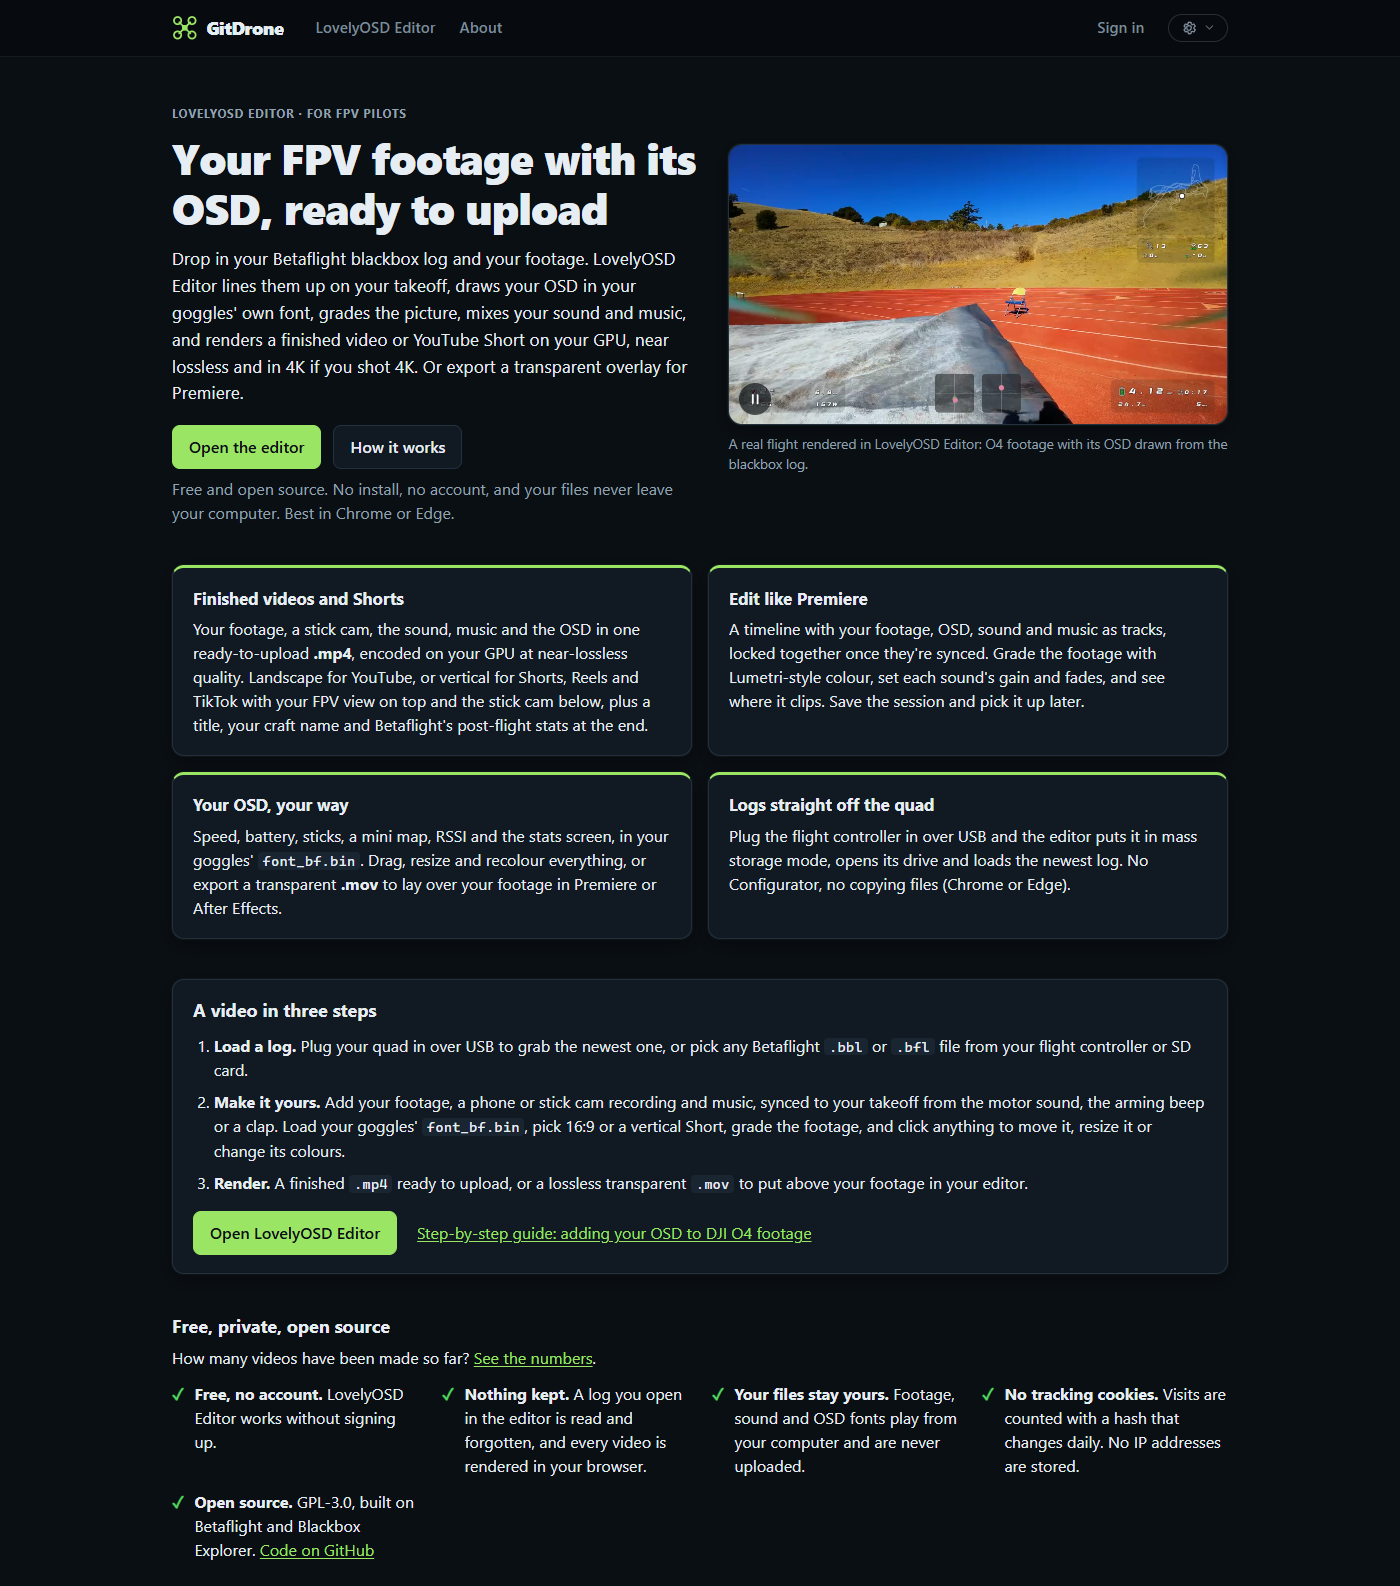
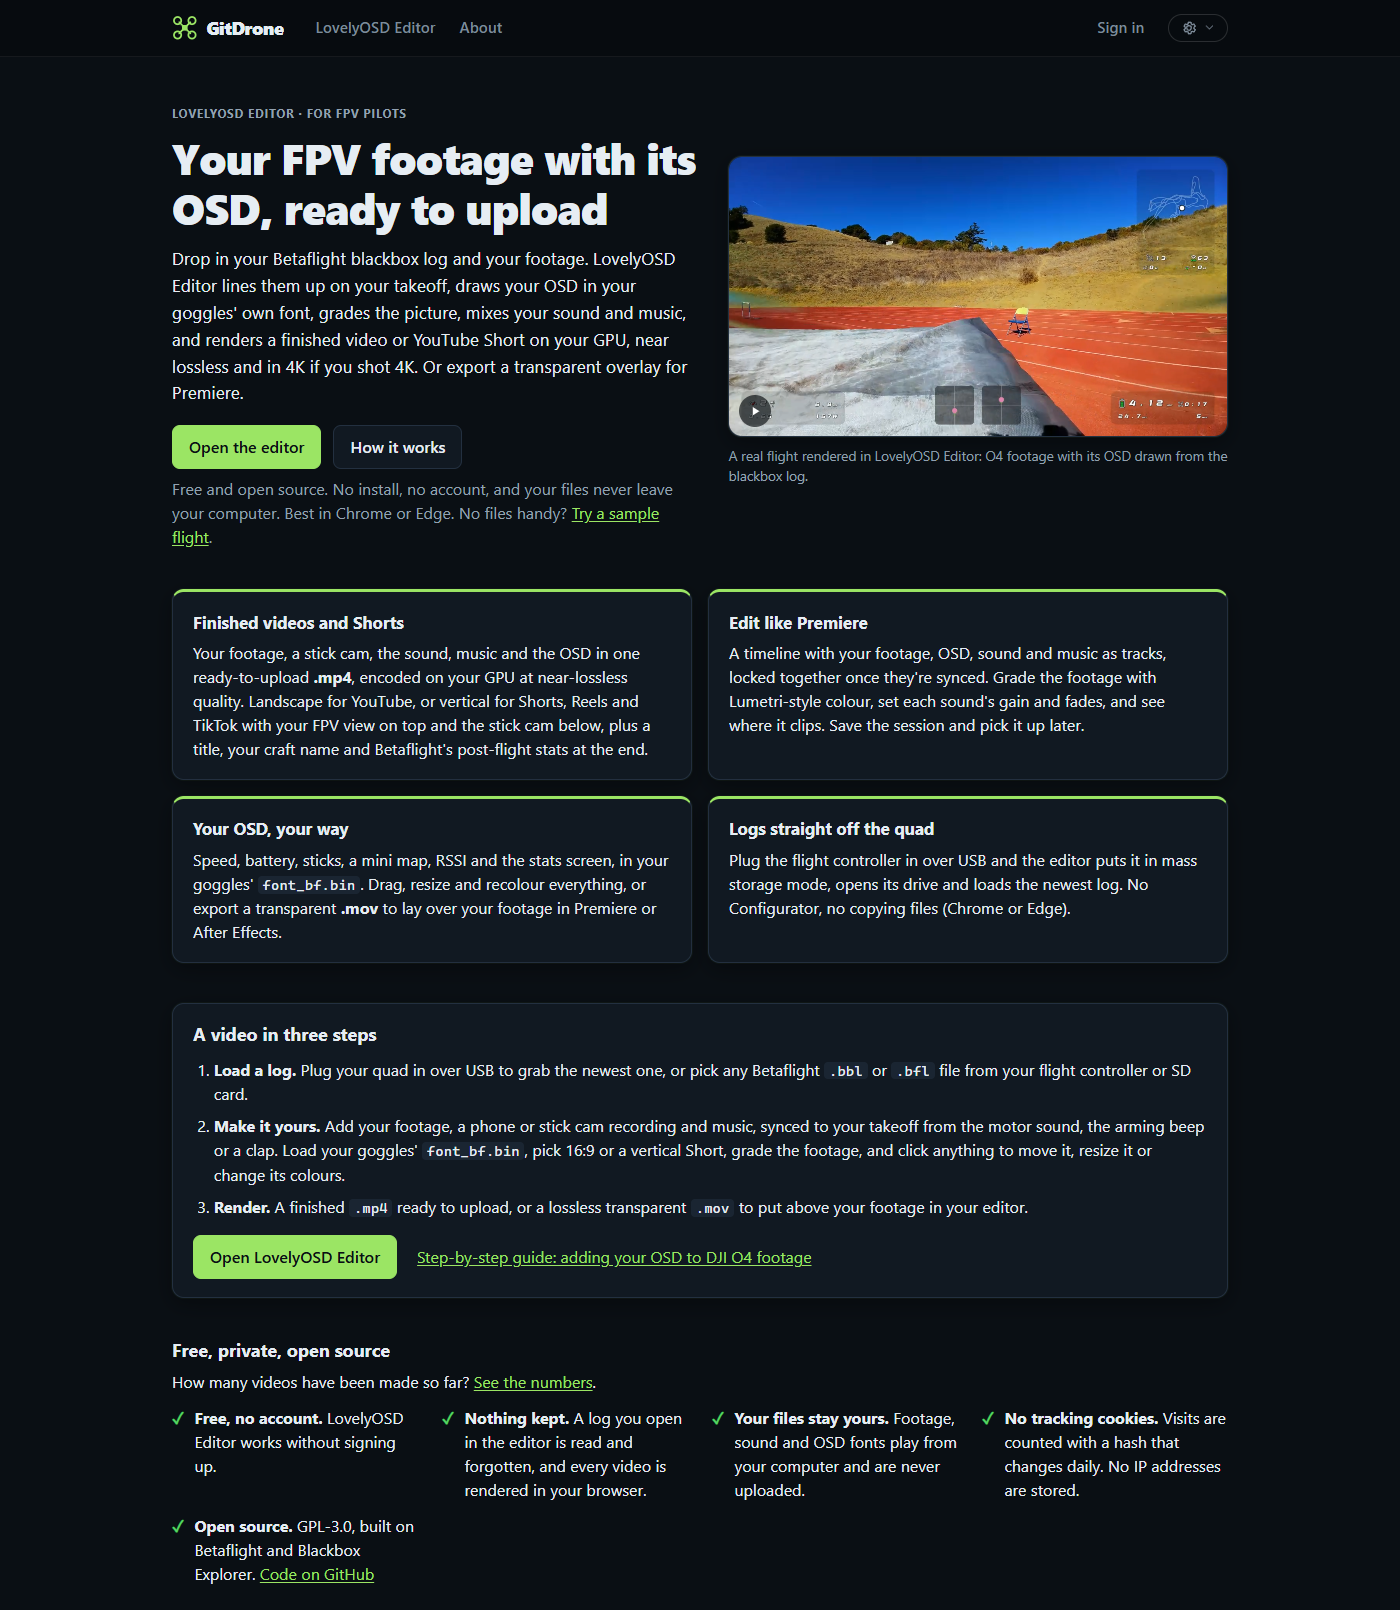
beautifying the editor page

diff --git a/drone-logger/src/app/osd/lovely-osd.component.ts b/drone-logger/src/app/osd/lovely-osd.component.ts
@@ -188,11 +188,18 @@ interface Opening {
             <app-overlay-export [data]="overlayData()!" [seconds]="s.flight.durationMs / 1000" [fileStem]="fileStem()" [(video)]="video" [(sound)]="sound" />
           </section>
 
-          <section aria-labelledby="osd-stats-heading">
-            <h2 id="osd-stats-heading">Flight stats</h2>
-            <app-flight-view [flight]="s.flight" [track]="s.track" [sticks]="s.sticks?.points ?? null" [battery]="s.battery?.points ?? null"
-                             [telemetry]="s.telemetry?.points ?? null" />
-          </section>
+          <!-- The flight's stats, map, charts and playback, folded away under the editor until wanted. Drawn only once
+               opened, so the map sizes itself to a visible box. -->
+          <details class="flight-data" [open]="statsOpen()" (toggle)="statsOpen.set($any($event.target).open)">
+            <summary>
+              <h2 id="osd-stats-heading">Flight stats</h2>
+              <span class="hint">Stats, map, charts and stick playback</span>
+            </summary>
+            @if (statsOpen()) {
+              <app-flight-view [flight]="s.flight" [track]="s.track" [sticks]="s.sticks?.points ?? null" [battery]="s.battery?.points ?? null"
+                               [telemetry]="s.telemetry?.points ?? null" />
+            }
+          </details>
         }
     </div>
   `,
@@ -205,7 +212,12 @@ interface Opening {
     .pick p { margin: 0; }
     .session-title { margin: 1.5rem 0 .75rem; }
     section h2 { margin: 1.5rem 0 .25rem; }
-    #osd-stats-heading { margin-top: 2.5rem; margin-bottom: .75rem; }
+    .flight-data { margin-top: 2.5rem; }
+    .flight-data summary { cursor: pointer; display: flex; flex-wrap: wrap; align-items: baseline; gap: .25rem .75rem; margin-bottom: .75rem; }
+    .flight-data summary::before { content: '▸'; color: var(--accent); }
+    .flight-data[open] summary::before { content: '▾'; }
+    .flight-data summary::-webkit-details-marker { display: none; }
+    #osd-stats-heading { margin: 0; display: inline; }
     section .hint { margin: 0; }
     .small { padding: .3rem .75rem; font-size: .88rem; }
     .link { background: none; border: 0; padding: 0; font: inherit; color: var(--accent); text-decoration: underline; cursor: pointer; }
@@ -332,6 +344,8 @@ export class LovelyOsdComponent {
   // ---- the sample flight ----
   /** The sample is in: shows the tip on lining it up. */
   sample = signal(false);
+  /** The flight stats under the editor: folded away until opened. */
+  statsOpen = signal(false);
   sampleLoading = signal(false);
 
   /**

diff --git a/README.md b/README.md
@@ -59,7 +59,7 @@ fade out at the end, with Betaflight's post-flight stats as the last frame holds
 (100 or 120 fps footage comes out at 60).
 
 <p align="center">
-  <img src="docs/screenshots/shorts.png" alt="The editor in vertical 9:16: the Title settings and the A2 Music track's settings (graph, gain, peak, song start, fades) on the left; a tall preview with the O4 footage on top, the stick cam below, big sticks and the battery over it, and the title and craft name; the timeline under it with the OSD, footage, stick cam, sound and music tracks, locked; and Options with Sources, Show and Output, then the Export row" width="860">
+  <img src="docs/screenshots/shorts.png" alt="The editor in vertical 9:16: the Title settings and the A2 Music track's settings (graph, gain, peak, song start, fades) on the left; a tall preview with the O4 footage on top, the stick cam below, big Pixel sticks (white rings on pixel-art boxes) and the battery over it, and the title and craft name; the timeline under it with the OSD, footage, stick cam, sound and music tracks, locked; and Options with Sources, Show and Output, then the Export row" width="860">
 </p>
 
 ### 🔌 Logs straight off the quad
@@ -69,7 +69,7 @@ the same as the Configurator's button, then opens its drive and loads the newest
 (Chrome or Edge).
 
 <p align="center">
-  <img src="docs/screenshots/overlay.png" alt="The overlay editor in 16:9: the Sticks settings and the V1 Flight footage's settings (sync, the Lumetri-style Color and Light sliders, zoom) on the left; a preview of real FPV footage with speed, battery, sticks and the mini map in a Betaflight OSD font; under it the Premiere-style timeline with the OSD, footage, sound and music tracks, the sound's waveform with its arming and clap markers, and the Render range; and Options along the bottom in three boxes, Sources, Show and Output (with the Max, High, Smaller and Upload quality buttons), then the Export row and its Overlay .mov and Video .mp4 buttons" width="860">
+  <img src="docs/screenshots/overlay.png" alt="The overlay editor in 16:9: the Sticks settings (stick mode, the Pixel look, its Backdrop, trails and colours) and the V1 Flight footage's settings (sync, the Lumetri-style Color and Light sliders, zoom) on the left; a preview of real FPV footage with speed, battery, the Pixel sticks and the mini map in a Betaflight OSD font; under it the Premiere-style timeline with the OSD, footage, sound and music tracks, the sound's waveform with its arming and clap markers, and the Render range; and Options along the bottom in three boxes, Sources, Show and Output (with the Max, High, Smaller and Upload quality buttons), then the Export row and its Overlay .mov and Video .mp4 buttons" width="860">
 </p>
 
 <table>
@@ -110,7 +110,7 @@ Each quad with its photo, specs, tune timeline (with firmware updates marked) an
 ### 🏠 And a front page to show it off
 
 <p align="center">
-  <img src="docs/screenshots/home.png" alt="The home page, leading with LovelyOSD Editor: the headline Your FPV footage with its OSD, ready to upload, Open the editor and How it works buttons, a looping clip of a real flight rendered with its OSD, four feature cards about the editor, a video-in-three-steps section, and the free, private, open source promises" width="860">
+  <img src="docs/screenshots/home.png" alt="The home page, leading with LovelyOSD Editor: the headline Your FPV footage with its OSD, ready to upload, Open the editor and How it works buttons, a Try a sample flight link, a looping clip of a real flight rendered with its OSD, four feature cards about the editor, a video-in-three-steps section, and the free, private, open source promises" width="860">
 </p>
 
 ## Tech stack
@@ -413,7 +413,7 @@ in the format, resolution and frame rate set under Output (`flights/video-render
 ## LovelyOSD Editor
 
 The **LovelyOSD Editor** tab (`/osd`), first in the nav and what the home page is about, is the quick route: pick a blackbox log, see the same stats, map, playback
-and charts as a flight page, and export the overlay video, without adding anything to the hangar. The API reads the
+and charts as a flight page (folded away under the editor until you open **Flight stats**), and export the overlay video, without adding anything to the hangar. The API reads the
 file in memory and forgets it (nothing goes into the database or `App_Data/logs`), and the results only live on the
 page, so leaving it clears them, unless you save the session. A file with several armed sessions gets a session picker.
 

diff --git a/drone-logger/README.md b/drone-logger/README.md
@@ -38,7 +38,8 @@ src/app/
 │   ├── file-handles, session-store  Keeping picked files' handles; saved LovelyOSD sessions in IndexedDB
 │   ├── overlay-export.component    The overlay editor (preview, Components and Track panels, Options, sync, both exports)
 │   ├── track-timeline.component    The editor's Premiere-style timeline: tracks, markers, playhead, render range
-│   ├── overlay-renderer            Draws one HUD frame on a canvas (panels, sticks, map, stats, title, craft name)
+│   ├── overlay-renderer            Draws one HUD frame on a canvas (panels, sticks in Smooth, Pixel or Retro, map,
+│   │                               stats, title, craft name)
 │   ├── mov-writer                  The transparent overlay: PNG frames in a QuickTime .mov
 │   ├── video-render                The finished .mp4: decode, composite and encode with Mediabunny (WebCodecs)
 │   ├── grade                       The footage's Lumetri-style colour, a WebGL shader for the preview and the render
